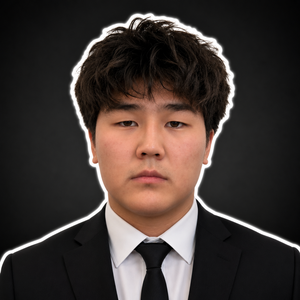
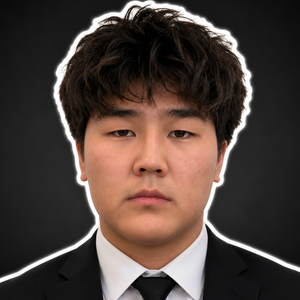
Tighter square headshot crop for natural proportions

diff --git a/signature.html b/signature.html
@@ -103,7 +103,7 @@
           <td valign="middle">
             <div class="sig-photo-wrap" style="position:relative;width:150px;height:150px;overflow:hidden;border-radius:16px;">
               <!-- <<< CHANGE USERNAME: replace "DanielIbraev" below with YOUR GitHub username (upload your photo as assets/profile.png first) -->
-              <img class="sig-photo" src="https://raw.githubusercontent.com/DanielIbraev/email-signature/main/assets/profile.png?v=3" alt="Daniel Ibraev"
+              <img class="sig-photo" src="https://raw.githubusercontent.com/DanielIbraev/email-signature/main/assets/profile.png?v=4" alt="Daniel Ibraev"
                    style="display:block;width:150px;height:150px;object-fit:cover;">
               <span class="sig-sheen" style="position:absolute;top:-30px;bottom:-30px;left:0;width:42px;background:linear-gradient(90deg,transparent,rgba(255,255,255,.55),transparent);"></span>
             </div>
